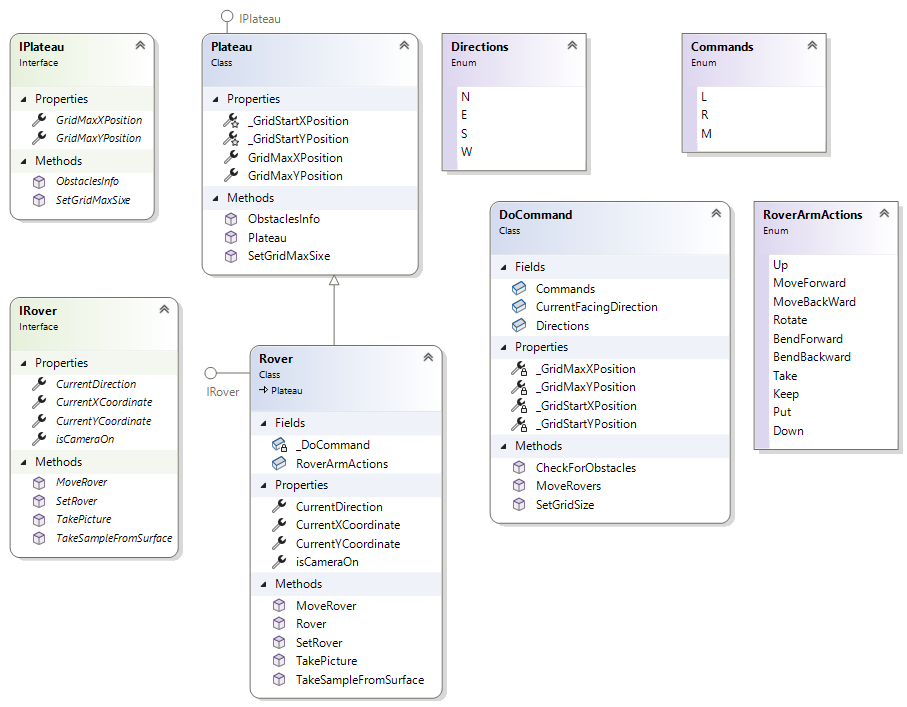
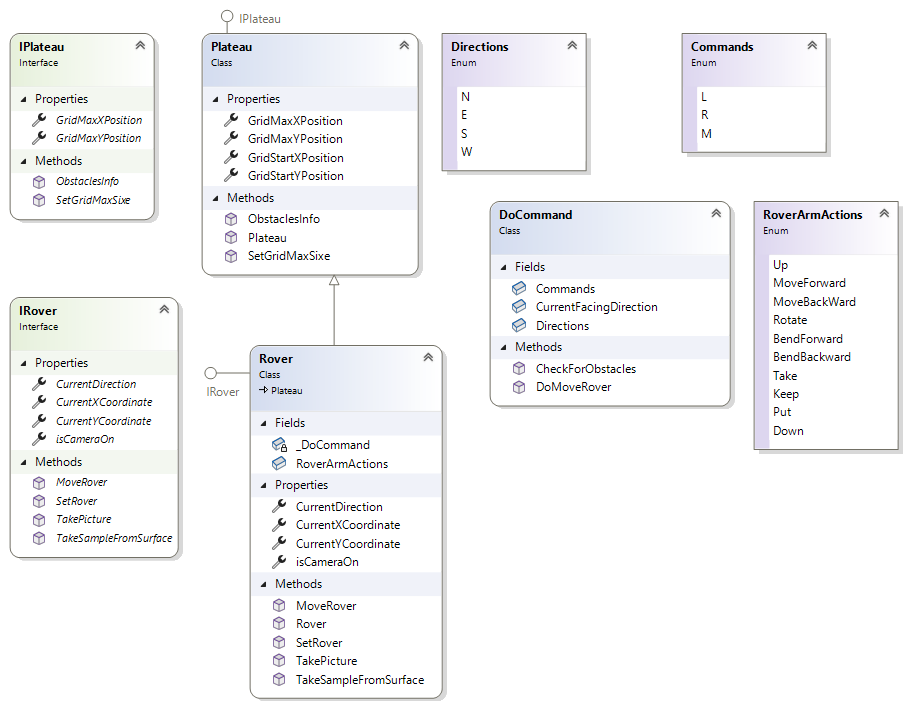
ReFractor - Removed duplicate addignments

Changed region(s): [[0.5248, 0.4668, 0.8335, 0.7468], [0.247, 0.1556, 0.4013, 0.2801]]

diff --git a/MarsRoverApp/Models/DoCommand.cs b/MarsRoverApp/Models/DoCommand.cs
@@ -8,26 +8,6 @@ namespace MarsRoverApp.Models
         public Commands Commands;
         public Directions CurrentFacingDirection;
 
-        private int _GridMaxXPosition { get; set; }
-        private int _GridMaxYPosition { get; set; }
-        private int _GridStartXPosition { get; set; }
-        private int _GridStartYPosition { get; set; }
-
-        /// <summary>
-        /// It sets the Grid in the Plateau Surface with start and Max Co-Ordinates
-        /// </summary>
-        /// <param name="startX"></param>
-        /// <param name="startY"></param>
-        /// <param name="MaxX"></param>
-        /// <param name="MaxY"></param>
-        public void SetGridSize(int startX, int startY, int MaxX, int MaxY)
-        {
-            _GridStartXPosition = startX;
-            _GridStartYPosition = startY;
-            _GridMaxXPosition = MaxX;
-            _GridMaxYPosition = MaxY;
-        }
-
         /// <summary>
         /// It takes Commands to Move and Rover as inputs and move the Rover to the New Position. It checks for any 
         /// Obstacles present and do the actions according to that
@@ -35,10 +15,15 @@ namespace MarsRoverApp.Models
         /// <param name="strCommands"></param>
         /// <param name="Rover"></param>
         /// <returns>The New Position of the Rover after Movement</returns>
-        public string MoveRovers(string strCommands, Rover Rover)
+        public string DoMoveRover(string strCommands, Rover Rover)
         {
             Point CurrentPoint = new Point();
             var sOutput = "";
+
+            var GridMaxXPosition = Rover.GridMaxXPosition;
+            var GridMaxYPosition = Rover.GridMaxYPosition;
+            var GridStartXPosition = Rover.GridStartXPosition;
+            var GridStartYPosition = Rover.GridStartYPosition;
 
             CurrentPoint.X = Rover.CurrentXCoordinate;
             CurrentPoint.Y = Rover.CurrentYCoordinate;
@@ -116,9 +101,9 @@ namespace MarsRoverApp.Models
                             case Directions.N:
                                 {
                                     CurrentPoint.Y += 1;
-                                    if (CurrentPoint.Y > _GridMaxYPosition)
+                                    if (CurrentPoint.Y > GridMaxYPosition)
                                     {
-                                        CurrentPoint.Y = _GridMaxYPosition;
+                                        CurrentPoint.Y = GridMaxYPosition;
                                         sOutput = "Cannot Move Rover Further As it is Grid's Edge Position";
                                     }
                                     if (CheckForObstacles(Rover.ObstaclesInfo(), CurrentPoint))
@@ -131,9 +116,9 @@ namespace MarsRoverApp.Models
                             case Directions.E:
                                 {
                                     CurrentPoint.X += 1;
-                                    if (CurrentPoint.X > _GridMaxXPosition)
+                                    if (CurrentPoint.X > GridMaxXPosition)
                                     {
-                                        CurrentPoint.X = _GridMaxXPosition;
+                                        CurrentPoint.X = GridMaxXPosition;
                                         sOutput = "Cannot Move Rover Further As it is Grid's Edge Position";
                                     }
                                     if (CheckForObstacles(Rover.ObstaclesInfo(), CurrentPoint))
@@ -146,9 +131,9 @@ namespace MarsRoverApp.Models
                             case Directions.S:
                                 {
                                     CurrentPoint.Y -= 1;
-                                    if (CurrentPoint.Y < _GridStartYPosition)
+                                    if (CurrentPoint.Y < GridStartYPosition)
                                     {
-                                        CurrentPoint.Y = _GridStartYPosition;
+                                        CurrentPoint.Y = GridStartYPosition;
                                         sOutput = "Cannot Move Rover Further As it is Grid's Edge Position";
                                     }
                                     if (CheckForObstacles(Rover.ObstaclesInfo(), CurrentPoint))
@@ -161,9 +146,9 @@ namespace MarsRoverApp.Models
                             case Directions.W:
                                 {
                                     CurrentPoint.X -= 1;
-                                    if (CurrentPoint.X < _GridStartXPosition)
+                                    if (CurrentPoint.X < GridStartXPosition)
                                     {
-                                        CurrentPoint.X = _GridStartXPosition;
+                                        CurrentPoint.X = GridStartXPosition;
                                         sOutput = "Cannot Move Rover Further As it is Grid's Edge Position";
                                     }
                                     if (CheckForObstacles(Rover.ObstaclesInfo(), CurrentPoint))

diff --git a/MarsRoverApp/Models/Rover.cs b/MarsRoverApp/Models/Rover.cs
@@ -30,8 +30,6 @@ namespace MarsRoverApp.Models
             CurrentXCoordinate = 0;
             CurrentYCoordinate = 0;
             CurrentDirection = 'N';
-            _GridStartXPosition = 0;
-            _GridStartYPosition = 0;
             isCameraOn = false;
         }
 
@@ -65,7 +63,6 @@ namespace MarsRoverApp.Models
             CurrentXCoordinate = xCo;
             CurrentYCoordinate = yCo;
             CurrentDirection = strCurrentPosition[2];
-            _DoCommand.SetGridSize(_GridStartXPosition, _GridStartYPosition, GridMaxXPosition, GridMaxYPosition);
         }
 
         /// <summary>
@@ -76,7 +73,7 @@ namespace MarsRoverApp.Models
         /// <exception cref="ArgumentException"></exception>
         public string MoveRover(string strCommands)
         {
-            string strRoversNewPositionMessage = _DoCommand.MoveRovers(strCommands, this);
+            string strRoversNewPositionMessage = _DoCommand.DoMoveRover(strCommands, this);
             CurrentXCoordinate = Int32.Parse(strRoversNewPositionMessage.Substring(0, 1));
             CurrentYCoordinate = Int32.Parse(strRoversNewPositionMessage.Substring(1, 1));
             CurrentDirection = strRoversNewPositionMessage[2];

diff --git a/MarsRoverApp/Models/Plateau.cs b/MarsRoverApp/Models/Plateau.cs
@@ -9,16 +9,16 @@ namespace MarsRoverApp.Models
 {
     public class Plateau : IPlateau
     {
-        protected int _GridStartXPosition { get; set; }
-        protected  int _GridStartYPosition { get; set; }
+        public int GridStartXPosition { get; private set; }
+        public  int GridStartYPosition { get; private set; }
 
         public int GridMaxYPosition { get; private set; }
         public int GridMaxXPosition { get; private set; }
 
         public Plateau()
         {
-            _GridStartXPosition = 0;
-            _GridStartYPosition = 0;
+            GridStartXPosition = 0;
+            GridStartYPosition = 0;
         }
          
         public void SetGridMaxSixe(int MaxX, int MaxY)
